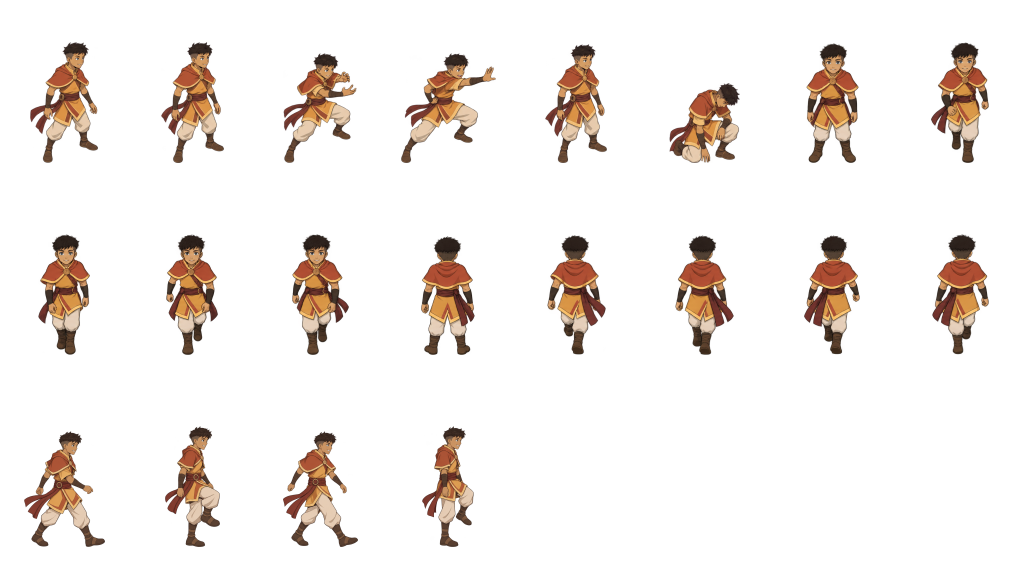
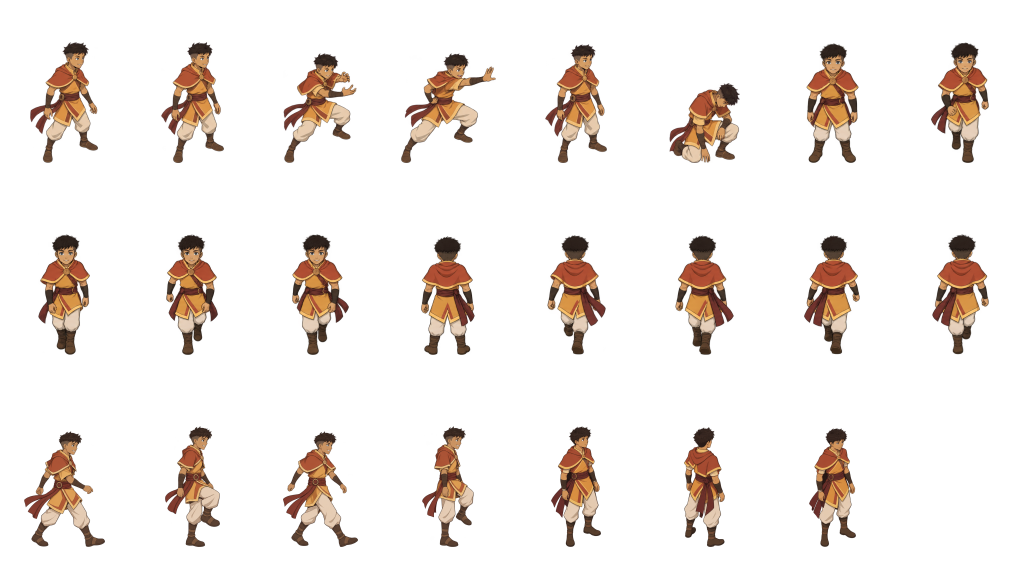
Add optional relaxed exploration poses for Nima

Changed region(s): [[0.5312, 0.7188, 0.5938, 0.9688], [0.7812, 0.75, 0.8438, 0.9688], [0.6562, 0.75, 0.7188, 0.9688]]

diff --git a/scripts/art/rest-poses.ts b/scripts/art/rest-poses.ts
@@ -1,0 +1,76 @@
+/** Append three relaxed exploration poses; every existing frame stays pixel-identical.
+ * npx tsx scripts/art/rest-poses.ts nima <three-column-transparent-sheet.png>
+ */
+import { readFileSync, writeFileSync } from 'node:fs';
+import { readPng, writePng, newImage, pixelAt, setPixel } from './lib/image';
+import { alphaBounds, crop } from './lib/trim';
+import { scaleBy } from './lib/scale';
+import { placeOnBaseline } from './lib/align';
+import { splitGrid } from './split-sheet';
+import { parseAtlasJson } from '../../src/render/sheets/atlasJson';
+
+const [name, input] = process.argv.slice(2);
+if (name !== 'nima' || !input)
+  throw new Error('Pilot accepts nima and a transparent three-column PNG.');
+const stem = `public/art/units/walking-${name}`;
+const original = readPng(`${stem}.png`);
+const atlas = parseAtlasJson(readFileSync(`${stem}.json`, 'utf8'));
+const frames = [...atlas.frames].filter(([id]) => !id.includes('/rest'));
+const idle = frames.find(([id]) => id.endsWith('/idle/0'));
+if (!idle) throw new Error('Missing reference idle.');
+const [idleId, rect] = idle;
+const key = idleId.split('/')[0];
+const standing = alphaBounds(
+  crop(original, { x: rect.x, y: rect.y, width: rect.w, height: rect.h }),
+);
+if (!standing) throw new Error('Empty reference idle.');
+const poses = splitGrid(readPng(input), 3, 1).map((cell) => {
+  const bounds = alphaBounds(cell);
+  if (!bounds) throw new Error('Empty rest pose.');
+  return crop(cell, bounds);
+});
+const maxHeight = Math.max(...poses.map((pose) => pose.height));
+if (maxHeight / Math.min(...poses.map((pose) => pose.height)) > 1.12) {
+  throw new Error('Rest poses differ in height by more than 12%.');
+}
+const columns = original.width / 128;
+const output = newImage(
+  original.width,
+  Math.max(original.height, Math.ceil((frames.length + 3) / columns) * 192),
+);
+output.data.set(original.data);
+const rectangles: Record<string, { frame: { x: number; y: number; w: number; h: number } }> = {};
+for (const [id, frame] of frames)
+  rectangles[id] = { frame: { x: frame.x, y: frame.y, w: frame.w, h: frame.h } };
+for (const [index, clip] of ['rest', 'restNorth', 'restSouth'].entries()) {
+  const pose = poses[index];
+  if (!pose) throw new Error('Missing rest pose.');
+  const aligned = placeOnBaseline(scaleBy(pose, standing.height / maxHeight), 128, 192);
+  if (aligned.problems.length) throw new Error(aligned.problems.join('; '));
+  const slot = frames.length + index;
+  const x0 = (slot % columns) * 128,
+    y0 = Math.floor(slot / columns) * 192;
+  for (let y = 0; y < 192; y++)
+    for (let x = 0; x < 128; x++) setPixel(output, x0 + x, y0 + y, pixelAt(aligned.image, x, y));
+  rectangles[`${key}/${clip}/0`] = { frame: { x: x0, y: y0, w: 128, h: 192 } };
+}
+for (const [, frame] of frames) {
+  for (let y = frame.y; y < frame.y + frame.h; y++)
+    for (let x = frame.x; x < frame.x + frame.w; x++) {
+      if (pixelAt(original, x, y).some((value, index) => value !== pixelAt(output, x, y)[index]))
+        throw new Error('Existing pose changed.');
+    }
+}
+writePng(`${stem}.png`, output);
+writeFileSync(
+  `${stem}.json`,
+  JSON.stringify(
+    {
+      frames: rectangles,
+      meta: { image: `walking-${name}.png`, size: { w: output.width, h: output.height } },
+    },
+    null,
+    2,
+  ) + '\n',
+);
+console.log(`${name}: appended three rest poses; ${frames.length} original frames unchanged.`);

diff --git a/src/render/sheets/resolveClip.test.ts b/src/render/sheets/resolveClip.test.ts
@@ -12,6 +12,19 @@ const minimal = { idle: clip(2, 1, true), cast: clip(3, 8) };
 const full = { ...minimal, walk: clip(4, 4, true), melee: clip(2), hit: clip(1), ko: clip(1) };
 
 describe('resolveClip', () => {
+  it('keeps optional exploration rests compatible with existing directional sheets', () => {
+    const directional = { ...minimal, idleNorth: clip(1), idleSouth: clip(1) };
+    expect(resolveClip(directional, 'restNorth')?.clip).toBe('idleNorth');
+    expect(resolveClip(directional, 'restSouth')?.clip).toBe('idleSouth');
+    expect(resolveClip(minimal, 'rest')?.clip).toBe('idle');
+    expect(resolveClip({ ...minimal, rest: clip(1) }, 'restNorth')?.clip).toBe('rest');
+    expect(resolveClip({ ...directional, restNorth: clip(1) }, 'restNorth')).toMatchObject({
+      clip: 'restNorth',
+      exact: true,
+    });
+    expect(resolveClip({ ...directional, rest: clip(1) }, 'idle')?.clip).toBe('idle');
+  });
+
   it('finds the clip itself when the sheet has it', () => {
     expect(resolveClip(full, 'melee')).toMatchObject({ clip: 'melee', exact: true });
   });

diff --git a/src/content/assets/manifest.ts b/src/content/assets/manifest.ts
@@ -94,6 +94,13 @@ const heroSheet = (key: string, palette: string): SheetEntry => {
       idleSouth: { frames: frames('idleSouth', 1), fps: 1, loop: true },
       walkNorth: { frames: frames('walkNorth', 4), fps: 4, loop: true },
       walkSouth: { frames: frames('walkSouth', 4), fps: 4, loop: true },
+      ...(name === 'nima'
+        ? {
+            rest: { frames: frames('rest', 1), fps: 1, loop: true },
+            restNorth: { frames: frames('restNorth', 1), fps: 1, loop: true },
+            restSouth: { frames: frames('restSouth', 1), fps: 1, loop: true },
+          }
+        : {}),
     },
   };
 };

diff --git a/scripts/art/pack.ts b/scripts/art/pack.ts
@@ -121,7 +121,11 @@ export function main(argv: readonly string[]): number {
       const timing =
         clip === 'walkNorth' || clip === 'walkSouth'
           ? { fps: 4, loop: true }
-          : clip === 'idleNorth' || clip === 'idleSouth'
+          : clip === 'idleNorth' ||
+              clip === 'idleSouth' ||
+              clip === 'rest' ||
+              clip === 'restNorth' ||
+              clip === 'restSouth'
             ? { fps: 1, loop: true }
             : BAKED_CLIPS[clip];
       return `      ${clip}: { frames: ${JSON.stringify(names)}, fps: ${timing.fps}, loop: ${timing.loop} },`;

diff --git a/src/content/assets/clips.ts b/src/content/assets/clips.ts
@@ -16,6 +16,9 @@ export const CLIP_NAMES = [
   'idleSouth',
   'walkNorth',
   'walkSouth',
+  'rest',
+  'restNorth',
+  'restSouth',
 ] as const;
 export type ClipName = (typeof CLIP_NAMES)[number];
 
@@ -42,6 +45,9 @@ export const CLIP_FRAME_COUNTS: Readonly<Record<ClipName, { min: number; max: nu
   idleSouth: { min: 1, max: 1 },
   walkNorth: { min: 4, max: 4 },
   walkSouth: { min: 4, max: 4 },
+  rest: { min: 1, max: 1 },
+  restNorth: { min: 1, max: 1 },
+  restSouth: { min: 1, max: 1 },
 };
 
 /** Clips every sheet must have. */

diff --git a/src/render/painters/figure.ts b/src/render/painters/figure.ts
@@ -204,7 +204,11 @@ export function poseFor(clip: ClipName, index: number): Pose {
   const base =
     clip === 'walkNorth' || clip === 'walkSouth'
       ? 'walk'
-      : clip === 'idleNorth' || clip === 'idleSouth'
+      : clip === 'idleNorth' ||
+          clip === 'idleSouth' ||
+          clip === 'rest' ||
+          clip === 'restNorth' ||
+          clip === 'restSouth'
         ? 'idle'
         : clip;
   const poses = POSES[base];

diff --git a/src/render/sheets/resolveClip.ts b/src/render/sheets/resolveClip.ts
@@ -22,6 +22,9 @@ const FALLBACK: Readonly<Record<ClipName, readonly ClipName[]>> = {
   idleSouth: ['idle'],
   walkNorth: ['walk', 'idle'],
   walkSouth: ['walk', 'idle'],
+  rest: ['idle'],
+  restNorth: ['idleNorth', 'rest', 'idle'],
+  restSouth: ['idleSouth', 'rest', 'idle'],
 };
 
 export interface ResolvedClip {

diff --git a/docs/art/nima-rest-pilot.md b/docs/art/nima-rest-pilot.md
@@ -1,0 +1,31 @@
+# Nima exploration rest pilot
+
+Original generated artwork, 18 September 2026, using the built-in OpenAI image
+generation tool. Identity reference: `assets/reference/character-poses/nima.png`.
+Source: `exec-16c7aeda-17eb-4767-b34c-351fcc95c2f0.png` in the task's generated
+images directory. Existing OpenAI-generated unit credit applies to this updated
+Nima atlas; usage follows the project's recorded OpenAI terms review.
+
+Prompt: Production game sprite pose sheet for EXACT young adult original man
+shown in reference: brown tousled hair, orange gold asymmetric layered travel
+robe, dark red waist sash and hanging long cloth, cream loose trousers, brown
+boots, wraps. Preserve identity and costume. Create THREE relaxed exploration
+REST poses, arranged three equal cells in ONE horizontal row on transparent
+1536x768 canvas, generous clear gutters. Cell 1: full body three-quarter facing
+SCREEN RIGHT, feet naturally near hip width, weight resting one leg, arms relaxed
+low, curious calm face, NOT fighting stance. Cell 2: same adult full body
+three-quarter BACK view facing up-right, arms relaxed, same neutral stance.
+Cell 3: same adult full body three-quarter FRONT view facing down-right, calm
+face arms relaxed. Same head size and adult 6.5–7 head proportions, same clothing
+details and body height in all three, feet at 85% cell height, no cropping.
+Elevated three-quarter orthographic camera consistent with 2:1 isometric ground.
+Clean fine brown ink #1b1410, flat cel base + one shadow tone, subtle warm upper
+left light, no gradients/no photographic texture. No weapons/effects, no ground
+shadow, no scenery, text, frames or labels. Characters must look quietly standing
+in a village, not braced legs/raised fists or an attack pose. Reference is identity
+only; replace combat body language with natural rest.
+
+Packing: `npx tsx scripts/art/rest-poses.ts nima <source.png>` splits the three
+cells, trims transparent margins, uniformly scales all three together, and
+places them on the existing baseline. The packer asserts unchanged old frames.
+The pilot does not constitute approval of the entire scene or other heroes.

diff --git a/docs/adr/0025-exploration-rest-poses.md b/docs/adr/0025-exploration-rest-poses.md
@@ -1,0 +1,19 @@
+# 0025 — Optional exploration rest poses
+
+Status: accepted contract; Nima is the visual pilot.
+
+Exploration should allow relaxed standing without changing combat readiness.
+Add optional single-frame `rest`, `restNorth`, and `restSouth` clips. Existing
+required clips, atlas frame dimensions, foot anchors, and asset budgets remain.
+Exploration may select rest clips when stationary; combat continues to select
+idle. The integration renderer owns that selection and directional mapping.
+
+Fallbacks preserve existing assets: rest → idle; restNorth → idleNorth → rest →
+idle; restSouth → idleSouth → rest → idle. Procedural figures use their existing
+idle pose. Missing optional artwork never makes an actor disappear.
+
+The Nima pilot appends three drawings into unused cells of his existing atlas.
+The packer checks that all twenty existing frames are pixel-identical and uses
+one shared scale based on the existing idle height. No new atlas request or
+budget increase is needed. Review the transition from walking to rest in the
+actual courtyard before extending this treatment to the remaining heroes.

diff --git a/docs/art/prompts/sheets/unit.air.jinu.md b/docs/art/prompts/sheets/unit.air.jinu.md
@@ -111,3 +111,17 @@ mirror these views. Generate a relaxed walk with modest arm counter-swing.
 
 These clips are optional. Existing action poses keep the side-view contract.
 See `docs/art/directional-character-walks.md` for the hero grid importer.
+
+## Optional exploration rest poses
+
+These are optional exploration drawings; combat keeps its existing idle poses.
+Only the Nima pilot currently supplies them. Preserve identity, body height and
+foot baseline, with arms hanging naturally and feet near hip width.
+
+| Frame             | Pose                                                |
+| ----------------- | --------------------------------------------------- |
+| `rest/0.png`      | Relaxed three-quarter view facing screen-right.     |
+| `restNorth/0.png` | Relaxed three-quarter back view facing up-right.    |
+| `restSouth/0.png` | Relaxed three-quarter front view facing down-right. |
+
+See ADR 0025 for fallbacks and `docs/art/nima-rest-pilot.md` for pilot provenance.

diff --git a/docs/art/prompts/sheets/unit.air.nima.md b/docs/art/prompts/sheets/unit.air.nima.md
@@ -111,3 +111,17 @@ mirror these views. Generate a relaxed walk with modest arm counter-swing.
 
 These clips are optional. Existing action poses keep the side-view contract.
 See `docs/art/directional-character-walks.md` for the hero grid importer.
+
+## Optional exploration rest poses
+
+These are optional exploration drawings; combat keeps its existing idle poses.
+Only the Nima pilot currently supplies them. Preserve identity, body height and
+foot baseline, with arms hanging naturally and feet near hip width.
+
+| Frame             | Pose                                                |
+| ----------------- | --------------------------------------------------- |
+| `rest/0.png`      | Relaxed three-quarter view facing screen-right.     |
+| `restNorth/0.png` | Relaxed three-quarter back view facing up-right.    |
+| `restSouth/0.png` | Relaxed three-quarter front view facing down-right. |
+
+See ADR 0025 for fallbacks and `docs/art/nima-rest-pilot.md` for pilot provenance.

diff --git a/docs/art/prompts/sheets/unit.earth.bo.md b/docs/art/prompts/sheets/unit.earth.bo.md
@@ -111,3 +111,17 @@ mirror these views. Generate a relaxed walk with modest arm counter-swing.
 
 These clips are optional. Existing action poses keep the side-view contract.
 See `docs/art/directional-character-walks.md` for the hero grid importer.
+
+## Optional exploration rest poses
+
+These are optional exploration drawings; combat keeps its existing idle poses.
+Only the Nima pilot currently supplies them. Preserve identity, body height and
+foot baseline, with arms hanging naturally and feet near hip width.
+
+| Frame             | Pose                                                |
+| ----------------- | --------------------------------------------------- |
+| `rest/0.png`      | Relaxed three-quarter view facing screen-right.     |
+| `restNorth/0.png` | Relaxed three-quarter back view facing up-right.    |
+| `restSouth/0.png` | Relaxed three-quarter front view facing down-right. |
+
+See ADR 0025 for fallbacks and `docs/art/nima-rest-pilot.md` for pilot provenance.
